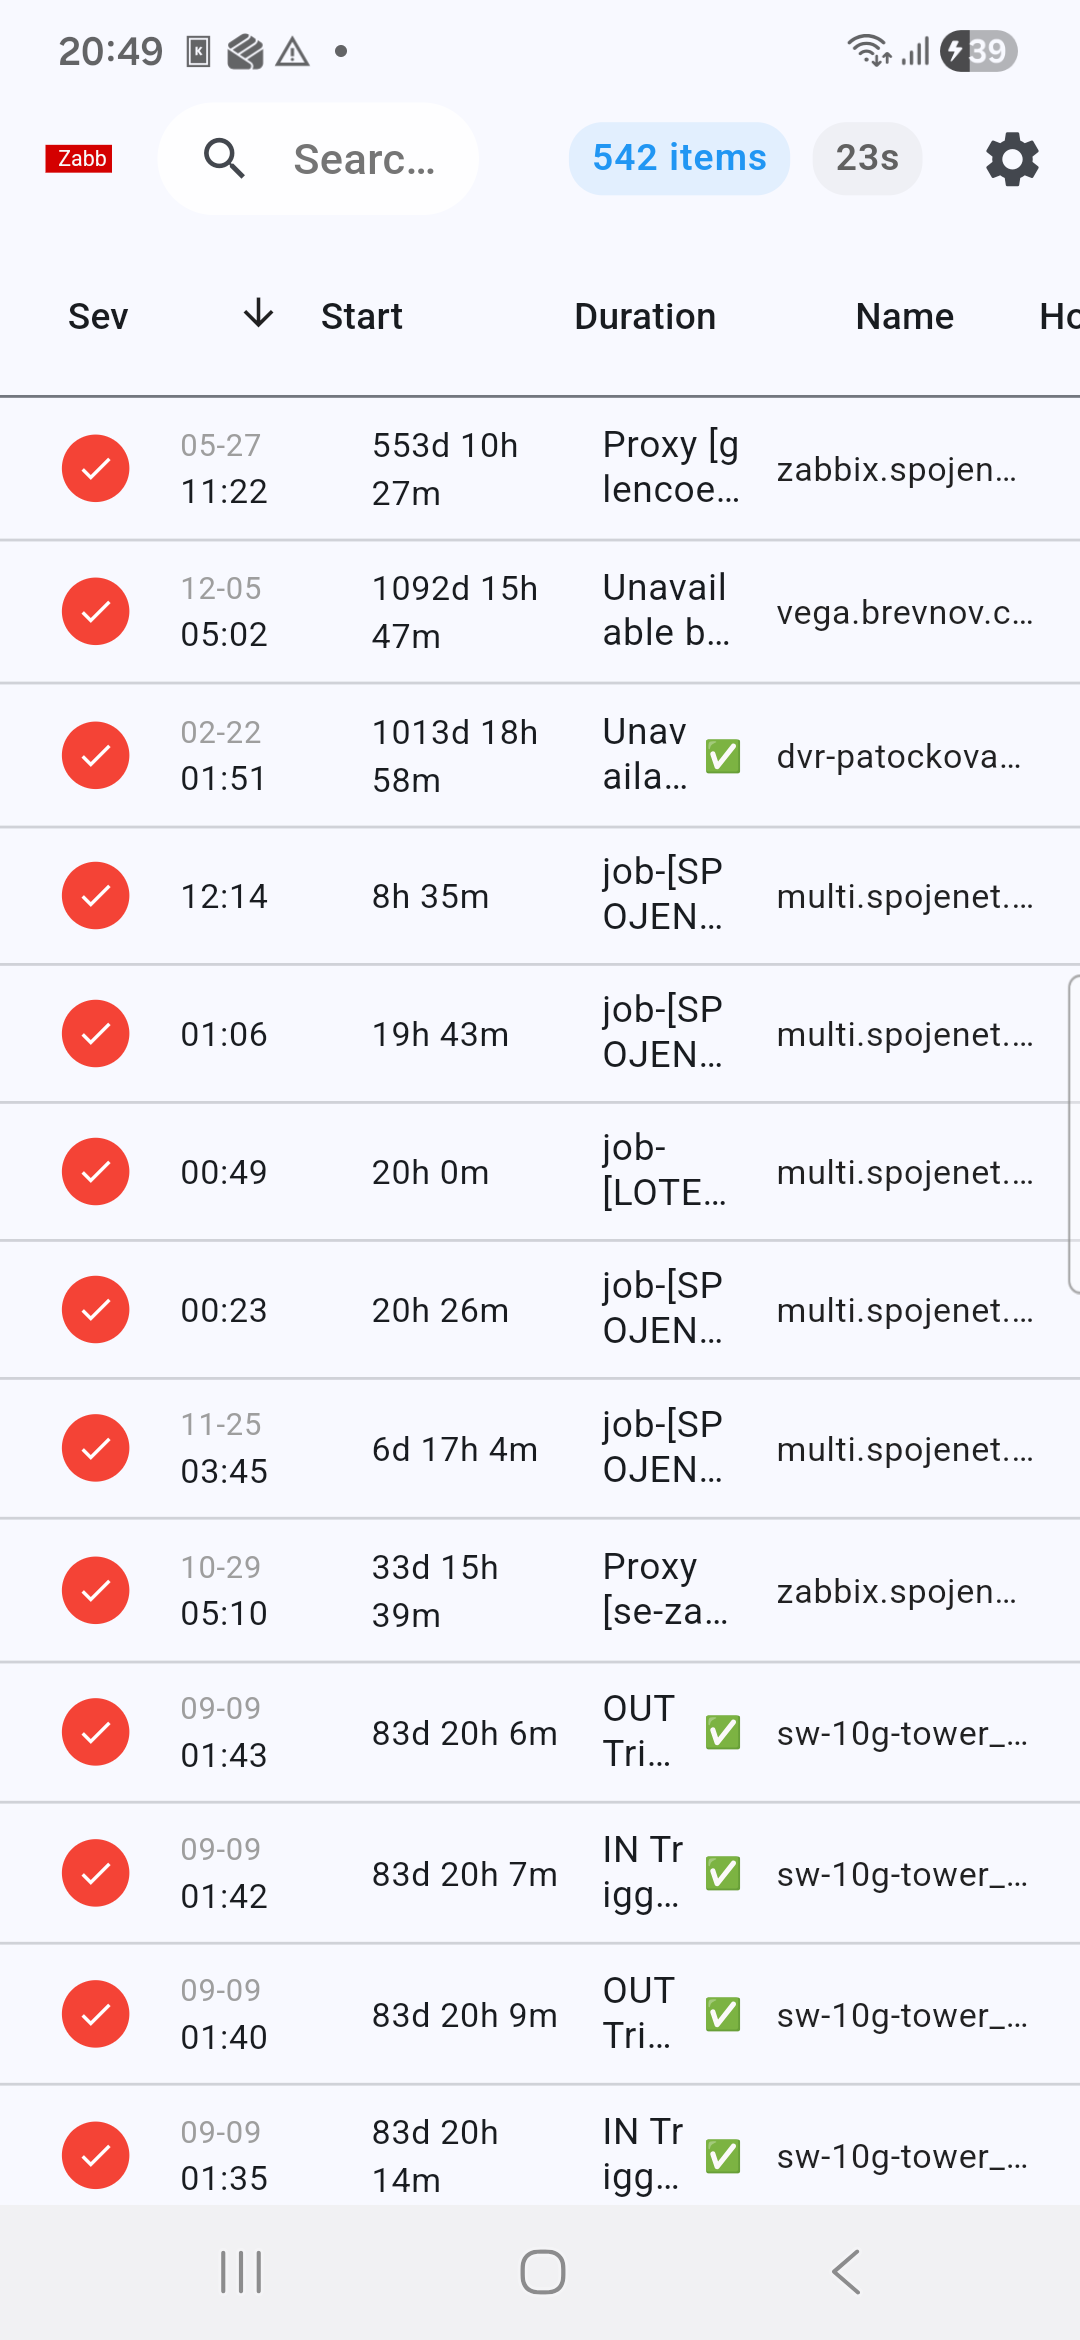
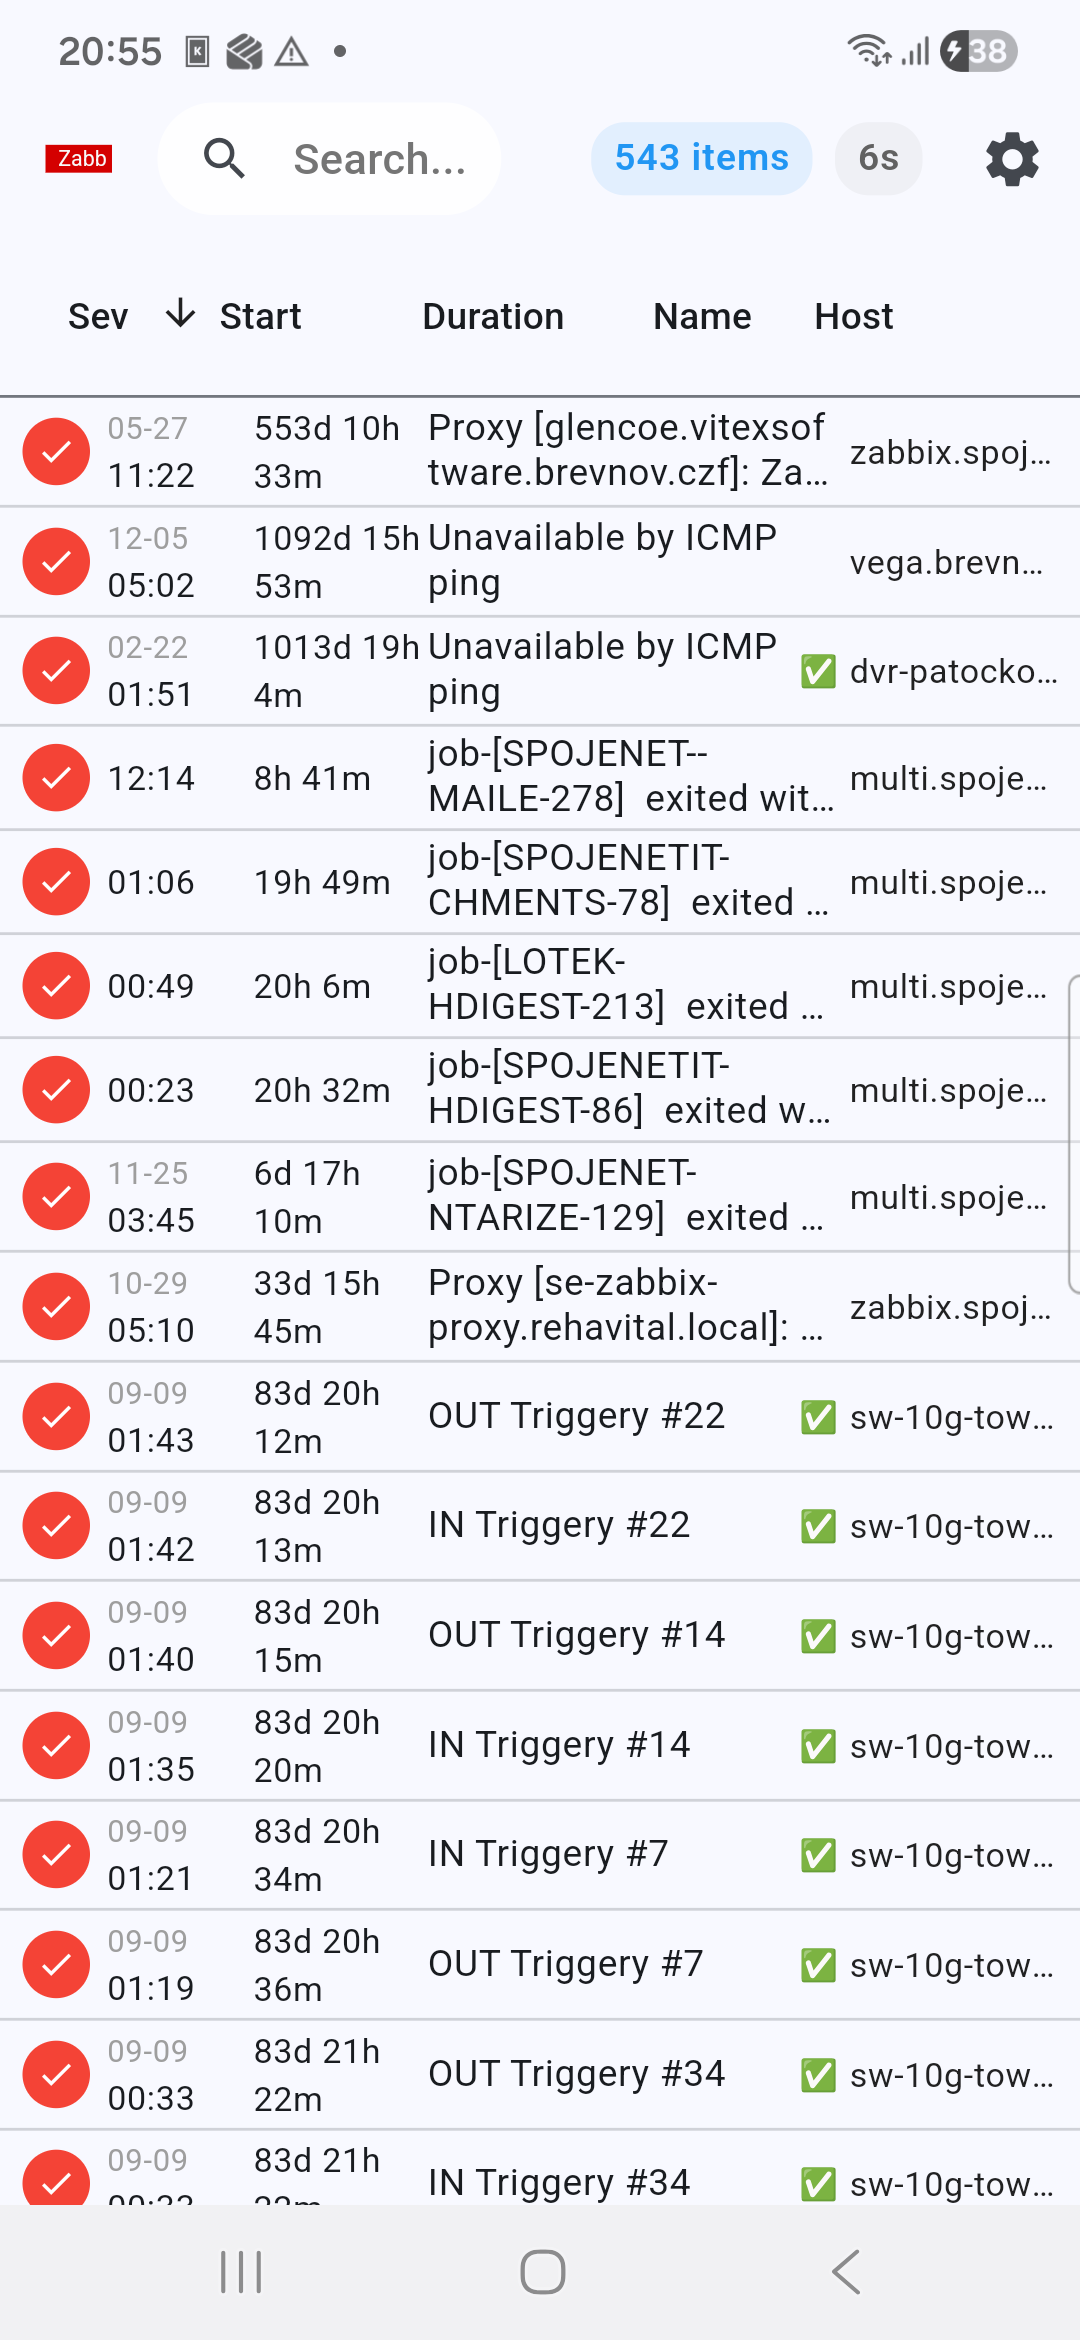
Adjust Start-Duration column spacing for better readability
Spacing Adjustment:
- Increased spacing between Start and Duration columns from 2px to 8px
- Provides approximately one character width of separation
- Improves visual distinction between time and duration values
- Maintains ultra-compact layout while enhancing readability

Updated version to 0.1.6

diff --git a/lib/screens/problems_screen.dart b/lib/screens/problems_screen.dart
@@ -883,7 +883,7 @@ class _ProblemsTableState extends State<_ProblemsTable> {
                             : _buildDateTimeColumn(startDateTime),
                       ),
                     ),
-                    const SizedBox(width: 2),
+                    const SizedBox(width: 8),
                     // Duration column
                     GestureDetector(
                       onTap: () => widget.onDetails(p),
